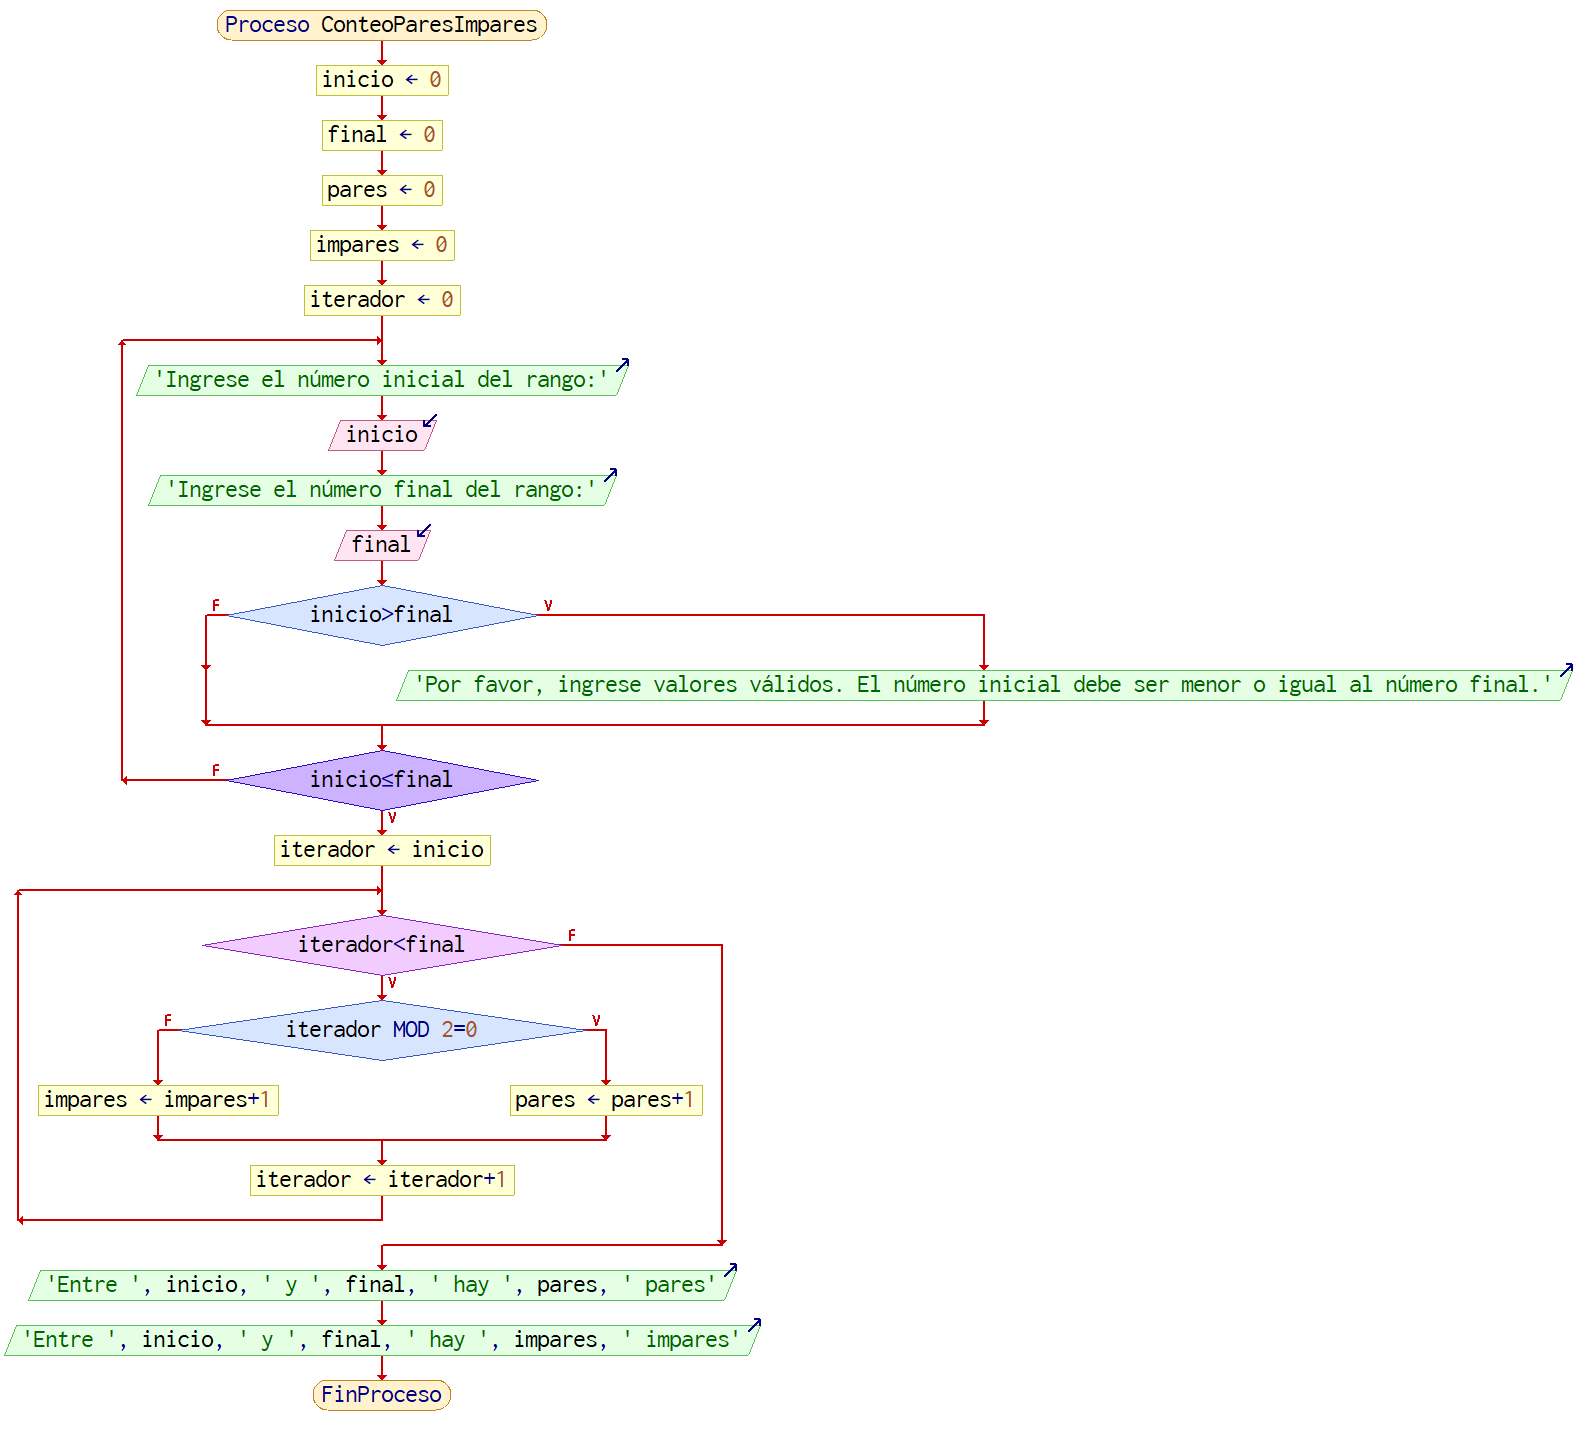
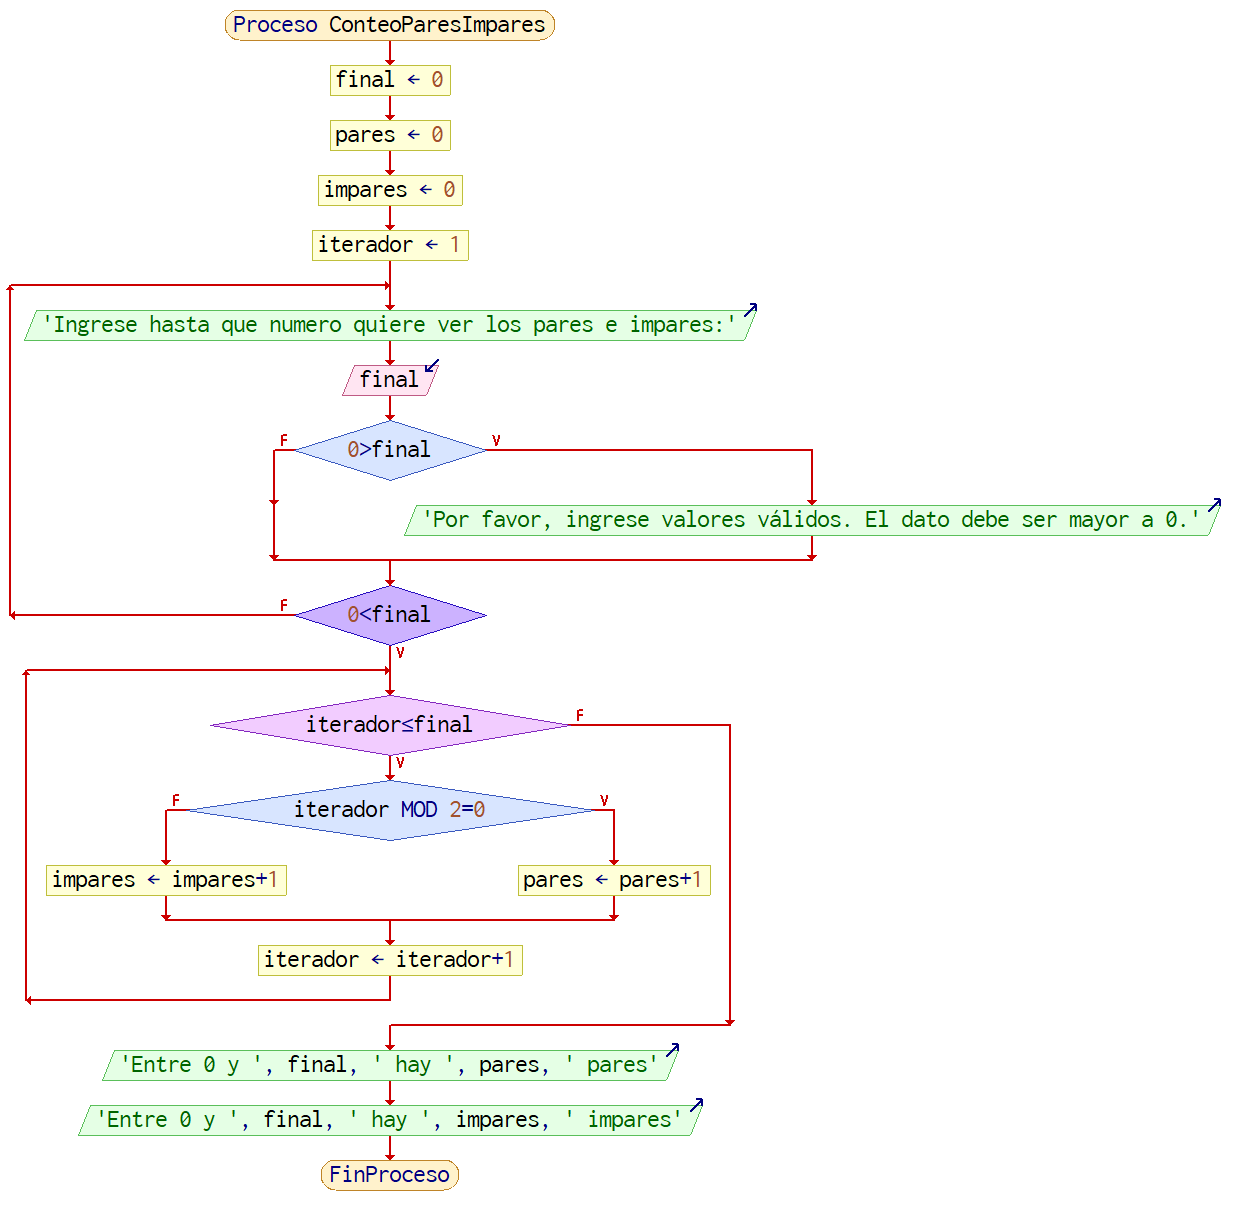
Terminando lo que falta EVP3

Changed region(s): [[0.0, 0.0, 1.0, 0.9927]]

diff --git a/EV-P3/2768-EVP3-Flores-Salas-Christian-Bruno-Sebastian/Desafios/Desafio3/js/promedioDeNumeros.js b/EV-P3/2768-EVP3-Flores-Salas-Christian-Bruno-Sebastian/Desafios/Desafio3/js/promedioDeNumeros.js
@@ -16,19 +16,13 @@ do {
 for (let i = 1; i <= cantidad; i++) {
 
     let numero;
-    let terminar;
 
     do {
         numero = parseInt(prompt(`Coloque el número ${i}:`));
-        if (isNaN(numero) || numero === 0) {
+        if (isNaN(numero) || numero === 0 || numero < 0) {
             alert('El valor debe ser un numero');
-            terminar = confirm("Quieres terminar el proceso?");
         }
-        if (terminar){
-            alert('Para poder utilizar denuevo el programa reinicia la pagina')
-            pass;
-        }
-    } while (isNaN(numero) || numero === 0);
+    } while (isNaN(numero) || numero === 0 || numero < 0);
 
     if (i === cantidad) {
         numeros.innerHTML += `${numero}`;

diff --git a/EV-P3/2768-EVP3-Flores-Salas-Christian-Bruno-Sebastian/Desafios/Desafio1/js/conteoParesImpares.js b/EV-P3/2768-EVP3-Flores-Salas-Christian-Bruno-Sebastian/Desafios/Desafio1/js/conteoParesImpares.js
@@ -6,7 +6,7 @@ let impares = 0;
 let iterador = 1;
 
 do {
-    final = parseInt(prompt("Ingrese hasta que numero quiere:"));
+    final = parseInt(prompt("Ingrese hasta que numero quiere ver los pares e impares:"));
 
     if (isNaN(final) || 0 >= final) {
         alert("Por favor, ingrese valores válidos. El valor debe ser mayor a 0");

diff --git a/EV-P3/2768-EVP3-Flores-Salas-Christian-Bruno-Sebastian/Desafios/Desafio1/index.html b/EV-P3/2768-EVP3-Flores-Salas-Christian-Bruno-Sebastian/Desafios/Desafio1/index.html
@@ -39,6 +39,6 @@
         <p>Creando con HTML - CSS - JS</p>
     </footer>
 
-    <script src="./js/calcularParesImpares.js"></script>
+    <script src="./js/conteoParesImpares.js"></script>
 </body>
 </html>

diff --git a/EV-P3/2768-EVP3-Flores-Salas-Christian-Bruno-Sebastian/Desafios/Desafio2/js/calcularFactorial.js b/EV-P3/2768-EVP3-Flores-Salas-Christian-Bruno-Sebastian/Desafios/Desafio2/js/calcularFactorial.js
@@ -12,7 +12,6 @@ do {
 
 for (let i = 1; i <= numero; i++) {
     factorial *= i;
-    console.log(i, ' * ', numero, ' = ', factorial);
 }
 
 resultado = factorial;
